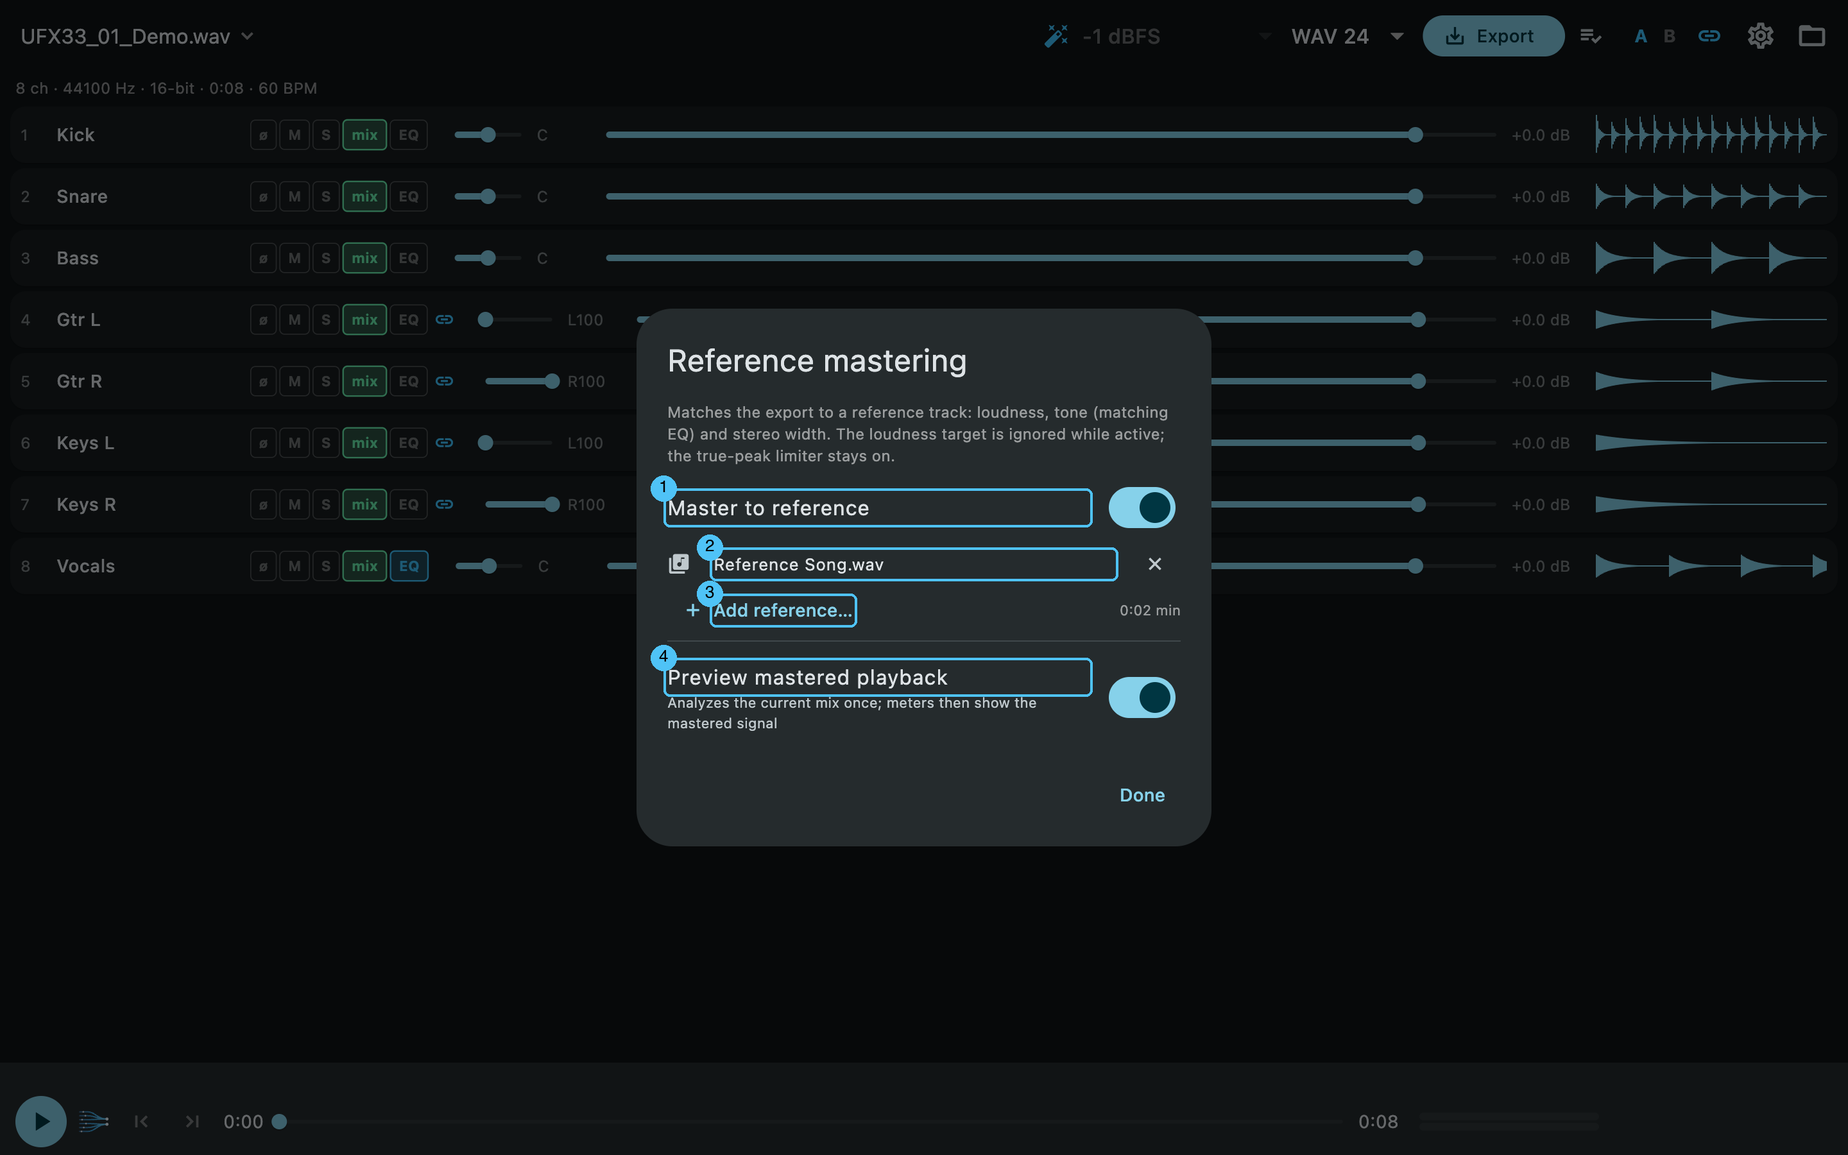
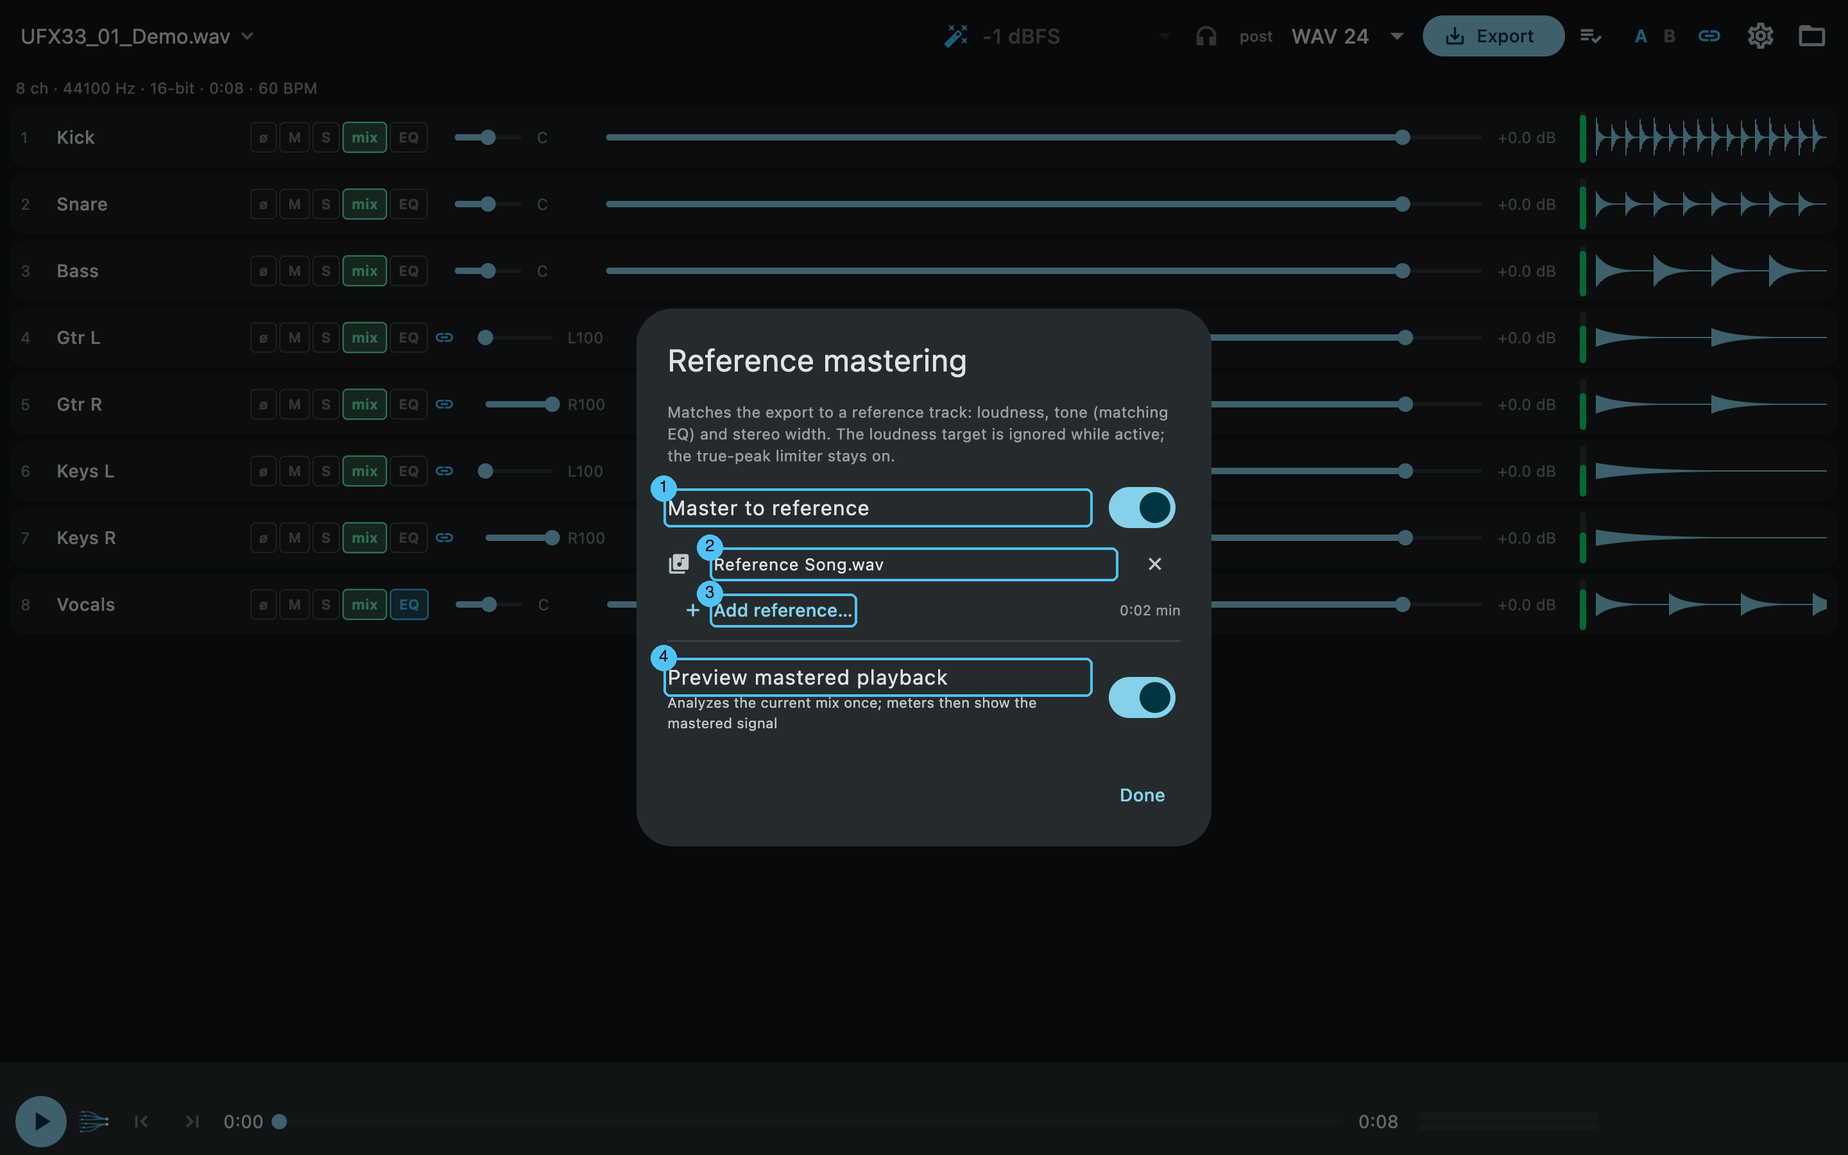
docs: Anleitung und AGENTS.md auf den Stand von v0.17.0 bringen
Die Doku war an vier Stellen älter als der Code:

- **AGENTS.md führte die Mastering-Kette als „NEEDS MERGE + LISTENING
  TEST"**, obwohl sie seit dem 18.7. als v0.9.0 draußen ist, und nannte
  `SESSION_VERSION` 3 (heute 4). Dazu widersprach sich M5: „batch export
  on phones — plumbing still open" gegen den Absatz darunter, der es als
  seit v0.8.0 erledigt beschreibt.
- **GUIDE.md behauptete, die Vorschau spiele immer den rohen Mix** — seit
  v0.13.2 gibt es den Kopfhörer-Knopf, und der Abschnitt dazu stand schon
  weiter unten in der Anleitung. Jetzt zeigen die Legenden-Nummern
  aufeinander statt gegeneinander.
- **Der Browser kam in der Anleitung nicht vor**, obwohl er seit v0.13.0
  das Kopf-Feature ist. Neuer Abschnitt 10 mit den vier Dingen, die dort
  anders sind: Datei nach dem Reload neu wählen (der Mix hängt sich über
  den Namen wieder an), Downloads statt Zielordner, kein MP3, und ein
  privates Fenster speichert gar nichts.
- **Die Spur-Meter fehlten** — Legende, ein eigener Unterabschnitt zu pre
  und post, und was ein gemutetes Meter bedeutet.

Screenshots neu erzeugt. Die Mixer-Legende ist von 13 auf 16 Positionen
gewachsen, deshalb sind auch die „mixer badge N"-Verweise im Text
nachgezogen — die zeigten sonst auf das falsche Bedienelement.

Im Screenshot-Lauf setzt der Integrationstest jetzt feste Spurpegel.
Ohne das wären die neuen Meter im Bild leer, und die Legende zeigte auf
etwas Unsichtbares; mit laufender Wiedergabe statt fester Werte wäre
[…]

diff --git a/integration_test/app_test.dart b/integration_test/app_test.dart
@@ -763,6 +763,24 @@ Future<void> _captureDocScreenshots(
     tester.view.padding = FakeViewPadding.zero; // see the pin at the top
     tester.view.viewInsets = FakeViewPadding.zero;
     tester.view.viewInsets = FakeViewPadding.zero;
+    // Fixed track levels so the meters (#115) actually show something in the
+    // docs. Set rather than played: a running preview would make every bar
+    // height depend on when the shot was taken, and the screenshots are
+    // supposed to be reproducible.
+    // Spread over ~25 dB rather than a realistic mix: on the −60…+3 dB scale
+    // everything above −10 dB sits in the top third, so similar levels would
+    // draw eight nearly identical bars and the reader could not tell it is a
+    // meter at all.
+    state.playback.trackPeaks = Float32List.fromList(const [
+      0.89,
+      0.45,
+      0.63,
+      0.20,
+      0.18,
+      0.09,
+      0.08,
+      0.32,
+    ]);
     await tester.pumpAndSettle();
     await shot('mixer', [
       (
@@ -777,6 +795,14 @@ Future<void> _captureDocScreenshots(
         'Loudness target (applied on export)',
         find.byType(DropdownButton<LoudnessChoice>),
       ),
+      (
+        'Preview at export level — play the mix at the level the file will have',
+        find.byIcon(Icons.headphones),
+      ),
+      (
+        'Track meters: pre- or post-fader',
+        find.widgetWithText(TextButton, 'post'),
+      ),
       ('Output format', find.byType(DropdownButton<rust.ApiFormat>)),
       ('Export the stereo mixdown', find.text('Export')),
       (
@@ -790,8 +816,12 @@ Future<void> _captureDocScreenshots(
       ('Link stereo pairs (·L/·R)', find.byIcon(Icons.link).first),
       ('Choose the recordings folder', find.byIcon(Icons.folder_open)),
       (
-        'Track strip: fader, pan, ø/M/S/mix toggles, EQ, waveform',
+        'Track strip: fader, pan, ø/M/S/mix toggles, EQ, level meter, waveform',
         find.byType(TrackStrip).first,
+      ),
+      (
+        'Level of this track (greyed while muted)',
+        find.byType(TrackLevelMeter).first,
       ),
       ('Play / stop the live preview', find.byIcon(Icons.play_arrow)),
       (

diff --git a/AGENTS.md b/AGENTS.md
@@ -47,7 +47,7 @@ Rust toolchain: rustup at `~/.cargo` (needs `source ~/.cargo/env` in fresh shell
 
 Note: a unity mix of all tracks of these takes peaks ~+16 dBFS because DUREC also recorded monitor/aux buses (In Ear, Phones, Line Out, *_Out) alongside the sources. Excluding them is the user's call per take via `in_mix` — the app does not guess it from names.
 
-## Milestone status (2026-07-12)
+## Milestone status (M0–M5 dated 2026-07-12; everything after it is dated in its own bullet)
 
 - **M0 done** — repo bootstrap, FRB template, CI (`ci.yml`: rust checks, flutter analyze, 4-platform build matrix).
 - **M1 done** — engine core: streaming WAV/RF64/BW64 reader, iXML parsing (UTF-8-safe), constant-power pan (−3 dB centre), mix bus (solo/mute/polarity/in-mix), two-pass peak-normalised WAV render, session persistence. 31 tests. Validated against both real DUREC files (~5 s per 920 MB render).
@@ -58,9 +58,9 @@ Note: a unity mix of all tracks of these takes peaks ~+16 dBFS because DUREC als
 - **M3b done (2026-07-12, PRs #1 #2, v0.4.0)** — FLAC 16/24 (flacenc, streaming frame-by-frame) + MP3 320 (LAME; reserve the output buffer or LAME segfaults), trim in/out + 80 ms fades (position-aware, measured pre-normalisation), BPM detection (onset autocorrelation; validated exactly against the old tool: UFX33→161, UFX32→103), filename templating `{take}_{target}_{bpm}BPM_{timestamp}.{ext}`.
 - **M4 Android done, device-verified 2026-07-12 (v0.5.1 on the user's phone: WAV open + MP3 export OK)** — SAF end-to-end: Kotlin MethodChannel `durecmix/saf` (pick/create/openFd/displayName, persistable read permission), engine `InputHandle`/`OutputHandle` (path or raw fd; one fresh fd per engine call, ownership moves to Rust), bridge fd params on load/analyze/play/render. Fixed the v0.3.0 on-device crash (file_selector copied the multi-GB file).
 - **M4 iOS + phone (PRs #9 #11 #12, device-verified 2026-07-26)** — iOS Files picker in `ios/Runner/AppDelegate.swift` (`durecmix/files` channel: pick in place with `asCopy:false` + session-long security scope, export via tmp + move picker; iOS deployment target raised to 14.0); phone layout (<640 px: overflow-menu app bar, two-row transport, batch is desktop-only); background export (Android `ExportService` dataSync foreground service with progress notification, iOS `beginBackgroundTask`). **Verified on the user's iPad Air 4 (iOS 26.5.2):** a 1.2 GB take opened through the Files picker, iXML track names and count correct, and playback is audible — cpal's CoreAudio backend needs no AVAudioSession setup of its own on iOS, unlike the Android handshake above. The PWA runs on the same device. Still untested on iOS: export via the move picker, background export, and the folder-scope work the system picker replaces (`canPickFolders` is false there).
-- **M5 done except signed releases (PRs #4 #6 #7 #8)** — stereo-pair linking (default on, app-bar toggle; gain/mute/solo/EQ mirror, pans inverted) with per-pair unlink (link chip on paired strips; relink copies the tapped side), monitor-feed auto-exclusion on fresh sessions (**removed again in v0.12.16** — track names are free text from the interface configuration, so no name may decide anything; see `Session::from_track_info`), A/B mix snapshots (app-bar A/B, tap = store/recall, long-press/right-click = overwrite), batch export queue (desktop: jobs = loudness+format, sequential renders into one folder). **Remaining:** signed releases (needs Apple Developer account — user decision); batch export on phones (SAF tree grant exists since the WAV browser — plumbing still open).
+- **M5 done except signed releases (PRs #4 #6 #7 #8)** — stereo-pair linking (default on, app-bar toggle; gain/mute/solo/EQ mirror, pans inverted) with per-pair unlink (link chip on paired strips; relink copies the tapped side), monitor-feed auto-exclusion on fresh sessions (**removed again in v0.12.16** — track names are free text from the interface configuration, so no name may decide anything; see `Session::from_track_info`), A/B mix snapshots (app-bar A/B, tap = store/recall, long-press/right-click = overwrite), batch export queue (desktop: jobs = loudness+format, sequential renders into one folder). **Remaining:** signed releases (needs Apple Developer account — user decision). Batch export on phones was the other remainder and is done since v0.8.0, see below.
 - **WAV browser done (v0.7.0)** — in-app folder browser: `wav::probe` (header-only metadata incl. iXML track count), SAF `pickDirectory`/`listDirectory` (ACTION_OPEN_DOCUMENT_TREE, persistable READ|WRITE grant, name-based .wav filter — MIME is octet-stream on sticks), `WavBrowser` state (sequential lazy probe queue, cache, sort name/date persisted in `settings.json`), `WavBrowserPage`, app-bar filename tap = switch takes. Session keys hash the SAF documentId (not the full URI) with a one-time rename migration so mixes survive picker↔browser. iOS keeps the system picker (folder scopes deferred until a device exists).
-- **Reference mastering (PRs #28–#33, 2026-07-18, stacked chain — NEEDS MERGE + LISTENING TEST)** — Matchering-style mastering as a clean-room Rust reimplementation (no GPL code; Matchering is GPL-3.0): the export is matched to a user-chosen reference track (any WAV/FLAC/MP3/OGG via Symphonia) in loudness, tonality (mid/side matching EQ: loudest-15s-pieces average spectra → ±18 dB clamped, log-frequency-smoothed curve → 4095-tap linear-phase FIRs via `dsp/fir.rs` overlap-add) and stereo width; level match is analytic (Parseval) so mastering adds ZERO extra passes (analysis rides render pass 1, FIRs ride pass 2 before the limiter; `LoudnessMode` is bypassed while active). Reference profiles (`mastering::ReferenceProfile`, versioned) are cached as JSON per file on the Dart side. UI: wand icon → mastering dialog; loudness controls grey out while active; report shows "matched to <ref> (±x dB)". `SESSION_VERSION` 3. Also fixed a real FLAC-export spec violation (STREAMINFO min_blocksize counted the short final frame — strict decoders like Symphonia refused our FLACs). Remaining: user merge #28→#33 in order, macOS listening test with a real DUREC take + commercial reference, one Android on-device check (SAF-picked MP3 reference).
+- **Reference mastering done (PRs #28–#33, merged 2026-07-18 as v0.9.0)** — Matchering-style mastering as a clean-room Rust reimplementation (no GPL code; Matchering is GPL-3.0): the export is matched to a user-chosen reference track (any WAV/FLAC/MP3/OGG via Symphonia) in loudness, tonality (mid/side matching EQ: loudest-15s-pieces average spectra → ±18 dB clamped, log-frequency-smoothed curve → 4095-tap linear-phase FIRs via `dsp/fir.rs` overlap-add) and stereo width; level match is analytic (Parseval) so mastering adds ZERO extra passes (analysis rides render pass 1, FIRs ride pass 2 before the limiter; `LoudnessMode` is bypassed while active). Reference profiles (`mastering::ReferenceProfile`, versioned) are cached as JSON per file on the Dart side. UI: wand icon → mastering dialog; loudness controls grey out while active; report shows "matched to <ref> (±x dB)". Raised `SESSION_VERSION` to 3 (4 today — multi-reference mastering in #40 bumped it again). Also fixed a real FLAC-export spec violation (STREAMINFO min_blocksize counted the short final frame — strict decoders like Symphonia refused our FLACs). Follow-ups all landed: the mastered preview (#36), multi-reference averaging (#40, v0.11.0), and reference mastering in the browser (v0.15.0, byte-identical to the native render). Still never done on a device: the Android check with a SAF-picked MP3 reference.
 - **Multi-file export done (v0.8.0)** — browser checkboxes (multichannel pre-ticked on probe), `MultiExportRunner` (`lib/state/batch_export.dart`): sequential renders of all ticked takes with the CURRENT mix mapped by track NAME onto each file (index fallback; trim/fades deliberately not applied — take-specific; sessions of other files never written), output into a `Mixdown/` subfolder (SAF: `ensureDirectory`/`createFileInDirectory` — use the returned URI, providers may rename), per-row progress/✓/error, result bar with system share sheet (`shareFiles`, ACTION_SEND_MULTIPLE + READ grant); single-export snackbar also offers Share on Android. This closes the former "batch export on phones" remainder.
 - **PWA (v0.13.0, PRs #95–#112, plan `docs/PLAN-PWA.md`)** — the app runs in a browser with the same engine: open, analyse, mix, preview and export a multi-GB take, offline-capable, deployed to GitHub Pages. Device-verified on the user's iPad Air with a 1.35 GB, 34-channel take. Details below; **issue #111 is closed as of v0.16.0** — persistence (v0.14.0), reference mastering (v0.15.0) and multi-file export (v0.16.0) all work in the browser, and #114 (fader clicks on the iPad) was fixed in two rounds (v0.13.1 measures the device, v0.13.3 removes a splice and learns from actual dropouts).
 

diff --git a/docs/GUIDE.md b/docs/GUIDE.md
@@ -38,24 +38,32 @@ picker instead of the in-app browser.
 2. **Reference mastering** — match the export to reference songs
    ([section 7](#7-reference-mastering)). Blue = active, amber = the
    mastered preview is stale.
-3. **Loudness target** — applied on export only; the preview always plays
-   the raw mix ([section 6](#6-loudness-targets--output-formats)).
-4. **Output format** — WAV 16/24/32-float, FLAC 16/24, MP3 320.
-5. **Export** the stereo mixdown ([section 8](#8-exporting)).
-6. **Batch export** — render several loudness/format targets in one go
+3. **Loudness target** — applied on export
+   ([section 6](#6-loudness-targets--output-formats)).
+4. **Preview at export level** — play the mix at the level the exported file
+   will have ([section 4](#preview-at-export-level)).
+5. **Track meters: pre or post** — switches every strip's level meter between
+   what arrives on the track and what it contributes to the mix
+   ([section 3](#3-track-strips--eq)).
+6. **Output format** — WAV 16/24/32-float, FLAC 16/24, MP3 320.
+7. **Export** the stereo mixdown ([section 8](#8-exporting)).
+8. **Batch export** — render several loudness/format targets in one go
    (desktop).
-7. **A/B mix snapshots** — tap an empty slot to store the current mix, tap a
+9. **A/B mix snapshots** — tap an empty slot to store the current mix, tap a
    filled slot to recall it; long-press (or right-click) overwrites.
-8. **Link stereo pairs** — tracks named `…·L`/`…·R` mirror gain, mute, solo
-   and EQ, with inverted pans. The link chip on a paired strip unlinks just
-   that pair; relinking copies the tapped side to its partner.
-9. **Choose the recordings folder.**
-10. **Track strip** — one per recorded channel ([section 3](#3-track-strips--eq)).
-11. **Play / stop** the live preview ([section 4](#4-playback--metering)).
-12. **Trim-in / trim-out** at the playhead; long-press clears
+10. **Link stereo pairs** — tracks named `…·L`/`…·R` mirror gain, mute, solo
+    and EQ, with inverted pans. The link chip on a paired strip unlinks just
+    that pair; relinking copies the tapped side to its partner.
+11. **Choose the recordings folder.**
+12. **Track strip** — one per recorded channel ([section 3](#3-track-strips--eq)).
+13. **Level meter** of that track — greyed out while the track is muted, taken
+    out of the mix, or soloed away, so you can still see that signal is there.
+14. **Play / stop** the live preview ([section 4](#4-playback--metering)).
+15. **Trim-in / trim-out** at the playhead; long-press clears
     ([section 5](#5-trimming)).
-13. **About** — installed version, update status, project links and
-    feedback ([section 10](#10-feedback--updates)).
+16. **Settings** — appearance, storage, and the way into About: installed
+    version, update status, project links and feedback
+    ([section 11](#11-feedback--updates)).
 
 A fresh session starts with **every** recorded track in the mix. Note that
 DUREC also records the monitor and cue buses it was configured to record (in
@@ -68,7 +76,7 @@ their names. The choice is saved per take.
 ## 3. Track strips & EQ
 
 Each strip carries (left to right): track number and name, the toggle chips,
-pan, fader, and the waveform.
+pan, fader, the level meter, and the waveform.
 
 - **ø** — polarity invert (instead of any destructive auto-"phase fix").
 - **M / S** — mute / solo.
@@ -82,6 +90,27 @@ pan, fader, and the waveform.
    low shelf, mid peak, high shelf (RBJ biquads — identical in preview and
    export).
 3. The **EQ chip** toggles the panel; it lights up while any band is active.
+
+### The level meter
+
+The thin bar next to each fader uses the same scale and colours as the master
+meter, so "hot" means the same thing in both places. The **pre** / **post**
+button in the header switches all of them at once:
+
+- **post** (the default) shows what the track *contributes to the mix* — the
+  question you are asking while mixing. Pull a fader down and its bar follows.
+- **pre** shows what *arrives* on the track, whatever its fader does. This is
+  the one for finding a channel that is silent, overloaded, or not what you
+  expected it to be.
+
+A muted track — or one taken out of the mix, or soloed away — keeps showing its
+level, greyed out. That is deliberate: muting is exactly when you want to see
+that there *is* something on the track. Because such a track is not being
+processed at all, its greyed bar ignores its EQ.
+
+The bars follow the track's EQ otherwise, and hold a peak briefly so a short
+one is visible at all. They are only useful for spotting a silent or a hot
+channel among thirty-odd — read actual levels off the master meter.
 
 Every change is saved automatically (debounced) into a per-take session
 file, so reopening a recording restores the exact mix.
@@ -127,7 +156,7 @@ values and the output path.
 
 ## 5. Trimming
 
-The trim buttons (mixer badge 12) set trim-in/trim-out at the current
+The trim buttons (mixer badge 15) set trim-in/trim-out at the current
 playhead; long-press clears a point. Exports render only the trimmed range
 and apply 80 ms fades at trim boundaries. Trim and fades are per-take and
 deliberately **not** carried into batch or multi-file exports.
@@ -174,10 +203,10 @@ works in single, batch and multi-file exports alike.
 
 ## 8. Exporting
 
-- **Export** (mixer badge 5) renders the current take: two streamed passes,
+- **Export** (mixer badge 7) renders the current take: two streamed passes,
   so multi-GB recordings never load into RAM — phones included. A report
   (LUFS-I, dBTP, LRA, gain or mastering match) appears above the transport.
-- **Batch export** (badge 6, desktop): queue several loudness/format
+- **Batch export** (badge 8, desktop): queue several loudness/format
   combinations of the *current* take and render them into one folder,
   auto-named like `Take_-14LUFS_120BPM_2026-07-19.wav`.
 
@@ -207,7 +236,31 @@ Framework file descriptors — the multi-GB file is never copied. Grant the
 folder once; the app keeps the permission. Exports can be shared from the
 result snackbar. iOS opens files in place via the system picker.
 
-## 10. Feedback & updates
+## 10. In the browser
+
+DurecMix also runs as a web page — nothing to install, and on a tablet too.
+Open the recording, mix, listen, master and export exactly as in the app; the
+same audio engine does the work, and the exported file is bit-for-bit the one
+the installed app would have written.
+
+Four things work differently, all because of what a browser is allowed to do:
+
+- **The recording has to be chosen again after a reload.** A browser may not
+  hold on to a file you picked, so there is no way to keep it across a visit.
+  Your *mix* does survive — pick the same recording again and it is exactly
+  where you left it, because mixes are stored under the file's name.
+- **There is no folder to export into.** Each finished mixdown arrives as its
+  own download instead. With several takes that means several downloads; on
+  iPhone and iPad, Safari asks once per file.
+- **MP3 export is app-only.** Use FLAC in the browser — it is lossless and
+  plays everywhere.
+- **A private window stores nothing at all.** Then a reload really does lose
+  the mix. Settings says which of the two you are getting, under **Storage**.
+
+Everything else — the WAV browser, EQ, reference mastering, the mastered
+preview, trimming, batch and multi-file export — behaves as described above.
+
+## 11. Feedback & updates
 
 Two slim banners can appear above the mixer (each dismissible with ✕ for the
 session):
@@ -228,7 +281,7 @@ whether you're up to date, with links to the GitHub project and this guide,
 plus the same feedback shortcut. **What's new** opens the version history —
 every release and what it changed, straight from the project's changelog.
 
-## 11. Where things live
+## 12. Where things live
 
 | Data | Location |
 |---|---|
@@ -236,6 +289,9 @@ every release and what it changed, straight from the project's changelog.
 | Waveform/BPM analysis cache | app container, `analysis/` |
 | Reference profiles (mastering) | app container, `reference_profiles/` |
 | Exports | wherever you save them; multi-file exports in `Mixdown/` next to the takes |
+
+In the browser there is no app container: the same four kinds of data live in
+the browser's own storage for that page, and exports become downloads.
 
 Sessions are keyed by file identity, so they survive renaming the folder or
 re-plugging the stick. Nothing ever writes next to your recordings except
